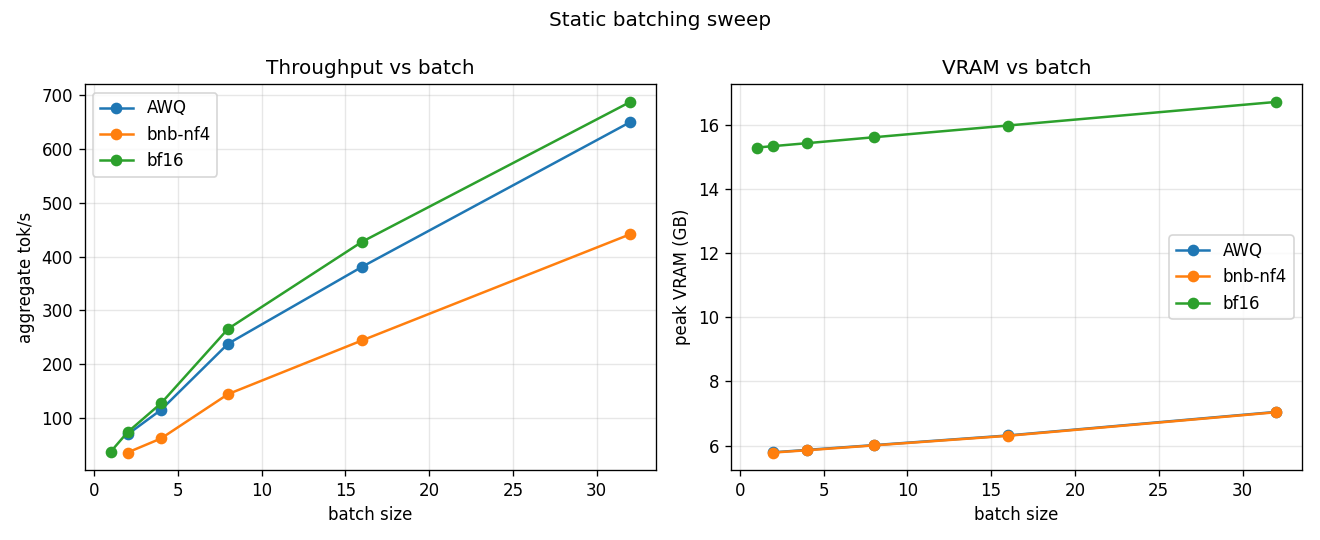
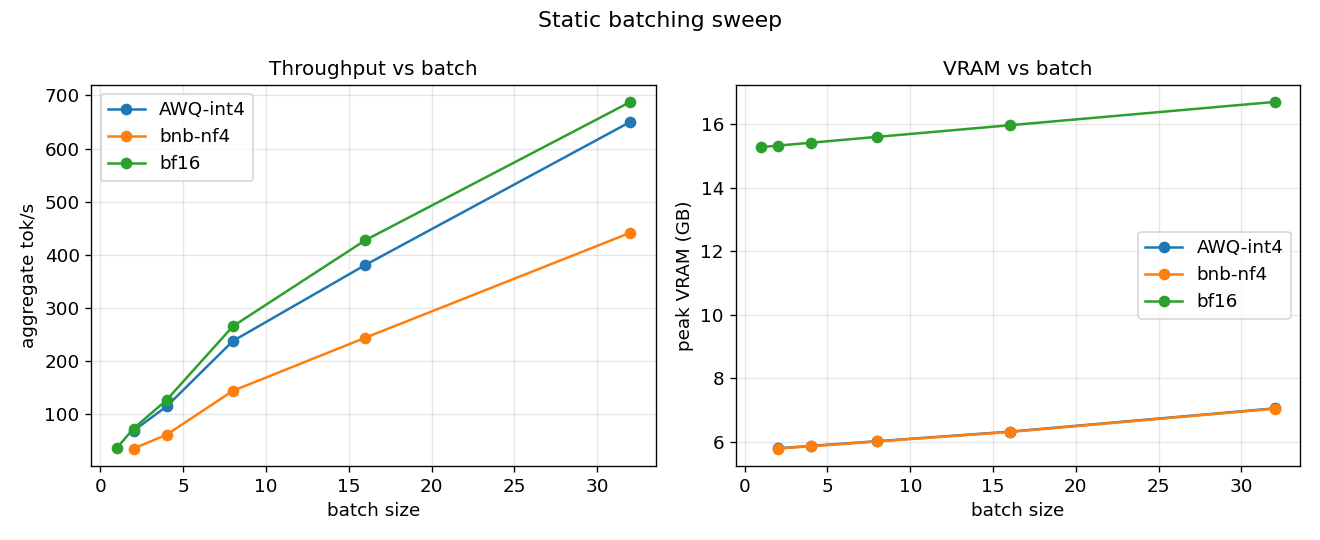
Polish figures: readable labels, value annotations, family colors, n/a handling
Shared plotstyle.py (LABEL/FORMAT_LABEL, family colors, bar value-annotations). Applied across plots.py and plots_methods.py: human-readable method names, numbers on bars, color by method family (gray=baseline/cache, green=quant, orange=spec), grid. Fix misleading '0.00' bar for formats without a quality run -> shown as 'n/a' (e.g. bnb-fp4 perplexity not measured).

diff --git a/scripts/plots_methods.py b/scripts/plots_methods.py
@@ -22,6 +22,9 @@ matplotlib.use("Agg")
 import matplotlib.pyplot as plt  # noqa: E402
 
 from aggregate import load_results  # noqa: E402
+from plotstyle import label, family_color, annotate_v, annotate_h, GREEN, GRAY  # noqa: E402
+
+RED = "#d62728"
 
 
 def dedupe_latest(speed):
@@ -44,8 +47,7 @@ def single_stream(speed):
         if not tps:
             continue
         out.append({
-            "kind": s["kind"],
-            "tps": tps,
+            "kind": s["kind"], "tps": tps,
             "vram": (s.get("peak_vram_gb") or {}).get("max"),
             "block": (s.get("mean_block_size") or {}).get("mean"),
         })
@@ -58,21 +60,25 @@ def fig_vs_baseline(rows, out, baseline="baseline_cache"):
     if not base or not base["tps"]:
         return None
     items = sorted([r for r in rows if r["kind"] != baseline], key=lambda r: r["tps"] / base["tps"])
-    names = [r["kind"] for r in items]
+    names = [label(r["kind"]) for r in items]
     spd = [r["tps"] / base["tps"] for r in items]
     vr = [(r["vram"] / base["vram"]) if r["vram"] and base["vram"] else 0 for r in items]
 
-    fig, axes = plt.subplots(1, 2, figsize=(13, max(3, 0.5 * len(items))))
-    axes[0].barh(names, spd, color=["seagreen" if x >= 1 else "indianred" for x in spd])
+    fig, axes = plt.subplots(1, 2, figsize=(13, max(3.5, 0.55 * len(items))))
+    b0 = axes[0].barh(names, spd, color=[GREEN if x >= 1 else RED for x in spd])
     axes[0].axvline(1, color="k", lw=1, ls="--")
-    axes[0].set_xlabel(f"speed vs {baseline} (×)")
-    axes[0].set_title("Speed relative to baseline (>1 = faster)")
-    axes[1].barh(names, vr, color=["seagreen" if 0 < x <= 1 else "indianred" for x in vr])
+    annotate_h(axes[0], b0, "{:.2f}×")
+    axes[0].set_xlim(0, max(spd) * 1.15)
+    axes[0].set_xlabel(f"speed vs {label(baseline)} (×)")
+    axes[0].set_title("Speed relative to baseline  (>1 = faster)")
+    b1 = axes[1].barh(names, vr, color=[GREEN if 0 < x <= 1 else RED for x in vr])
     axes[1].axvline(1, color="k", lw=1, ls="--")
-    axes[1].set_xlabel(f"VRAM vs {baseline} (×)")
-    axes[1].set_title("Memory relative to baseline (<1 = less)")
-    fig.suptitle(f"Each method vs baseline ({baseline}, batch=1)")
-    fig.tight_layout(); fig.savefig(out, dpi=120); plt.close(fig)
+    annotate_h(axes[1], b1, "{:.2f}×")
+    axes[1].set_xlim(0, max(vr) * 1.15)
+    axes[1].set_xlabel(f"VRAM vs {label(baseline)} (×)")
+    axes[1].set_title("Memory relative to baseline  (<1 = less)")
+    fig.suptitle(f"Each method vs baseline ({label(baseline)}, batch=1)")
+    fig.tight_layout(); fig.savefig(out); plt.close(fig)
     return out
 
 
@@ -82,21 +88,23 @@ def fig_spec(rows, out):
     items = [by[k] for k in order if k in by]
     if len(items) < 2:
         return None
-    fig, ax = plt.subplots(figsize=(8, 4.5))
-    bars = ax.bar([i["kind"] for i in items], [i["tps"] for i in items],
-                  color=["gray"] + ["steelblue"] * (len(items) - 1))
+    fig, ax = plt.subplots(figsize=(8.5, 5))
+    colors = [GRAY if it["kind"] == "baseline_cache" else family_color(it["kind"]) for it in items]
+    bars = ax.bar([label(it["kind"]) for it in items], [it["tps"] for it in items], color=colors)
+    annotate_v(ax, bars, "{:.0f}")
     base = by.get("baseline_cache")
     if base:
-        ax.axhline(base["tps"], color="k", ls="--", lw=1, label="baseline")
+        ax.axhline(base["tps"], color="k", ls="--", lw=1, label=f"baseline ({base['tps']:.0f})")
         ax.legend()
     for b, it in zip(bars, items):
         if it["block"]:
-            ax.annotate(f"blk {it['block']:.1f}", (b.get_x() + b.get_width() / 2, b.get_height()),
-                        ha="center", va="bottom", fontsize=8)
+            ax.annotate(f"blk {it['block']:.1f}", (b.get_x() + b.get_width() / 2, b.get_height() / 2),
+                        ha="center", va="center", fontsize=8, color="white")
     ax.set_ylabel("decode tok/s (batch=1)")
+    ax.set_ylim(0, max(it["tps"] for it in items) * 1.18)
     ax.set_title("Speculative-decoding variants vs baseline")
-    ax.tick_params(axis="x", rotation=30)
-    fig.tight_layout(); fig.savefig(out, dpi=120); plt.close(fig)
+    ax.tick_params(axis="x", rotation=20)
+    fig.tight_layout(); fig.savefig(out); plt.close(fig)
     return out
 
 
@@ -115,18 +123,21 @@ def fig_length(length_dir, out):
     lens = sorted({L for k in data for L in data[k]})
     fig, axes = plt.subplots(1, 2, figsize=(11, 4.5))
     for kind in sorted(data):
-        axes[0].plot(lens, [data[kind].get(L) for L in lens], "o-", label=kind)
+        axes[0].plot(lens, [data[kind].get(L) for L in lens], "o-", label=label(kind))
     axes[0].set_xlabel("generated tokens"); axes[0].set_ylabel("decode tok/s")
-    axes[0].set_title("Throughput vs generation length"); axes[0].legend(); axes[0].grid(alpha=.3)
+    axes[0].set_title("Throughput vs generation length"); axes[0].legend()
     if "baseline_cache" in data and "baseline_nocache" in data:
         ratio = [data["baseline_cache"].get(L, 0) / data["baseline_nocache"].get(L, 1) for L in lens]
         axes[1].plot(lens, ratio, "o-", color="purple")
+        for L, r in zip(lens, ratio):
+            axes[1].annotate(f"{r:.1f}×", (L, r), textcoords="offset points", xytext=(0, 6),
+                             ha="center", fontsize=8)
         axes[1].set_xlabel("generated tokens"); axes[1].set_ylabel("cache speedup (×)")
-        axes[1].set_title("KV-cache advantage grows with length"); axes[1].grid(alpha=.3)
+        axes[1].set_title("KV-cache advantage grows with length")
     else:
         axes[1].set_visible(False)
     fig.suptitle("KV-cache: behavior vs generation length")
-    fig.tight_layout(); fig.savefig(out, dpi=120); plt.close(fig)
+    fig.tight_layout(); fig.savefig(out); plt.close(fig)
     return out
 
 
@@ -141,14 +152,10 @@ def main():
 
     speed, _ = load_results(args.results_dir)
     rows = single_stream(dedupe_latest(speed))
-    for name, made in [
-        ("vs_baseline.png", fig_vs_baseline(rows, out_dir / "vs_baseline.png")),
-        ("spec_variants.png", fig_spec(rows, out_dir / "spec_variants.png")),
-    ]:
-        print(f"  {'wrote' if made else 'skip (insufficient data):'} {out_dir / name}")
+    print(f"  {'wrote' if fig_vs_baseline(rows, out_dir / 'vs_baseline.png') else 'skip:'} {out_dir / 'vs_baseline.png'}")
+    print(f"  {'wrote' if fig_spec(rows, out_dir / 'spec_variants.png') else 'skip:'} {out_dir / 'spec_variants.png'}")
     if args.length_dir:
-        made = fig_length(args.length_dir, out_dir / "length.png")
-        print(f"  {'wrote' if made else 'skip:'} {out_dir / 'length.png'}")
+        print(f"  {'wrote' if fig_length(args.length_dir, out_dir / 'length.png') else 'skip:'} {out_dir / 'length.png'}")
 
 
 if __name__ == "__main__":

diff --git a/scripts/plots.py b/scripts/plots.py
@@ -21,11 +21,8 @@ matplotlib.use("Agg")
 import matplotlib.pyplot as plt  # noqa: E402
 
 from aggregate import load_results, speed_format  # noqa: E402
+from plotstyle import FORMAT_LABEL, label, family_color, annotate_v, annotate_h  # noqa: E402
 
-FORMAT_LABEL = {
-    "none": "bf16", "int8": "bnb-int8", "nf4": "bnb-nf4", "fp4": "bnb-fp4",
-    "awq": "AWQ", "gptq-int4": "GPTQ-int4", "gptq-int8": "GPTQ-int8",
-}
 FORMAT_ORDER = ["none", "int8", "fp4", "nf4", "awq", "gptq-int4", "gptq-int8"]
 
 
@@ -62,9 +59,12 @@ def fig_methods(rows, out):
     if len(r) < 2:
         return None
     r.sort(key=lambda x: x["tps"])
-    fig, ax = plt.subplots(figsize=(8, max(3, 0.5 * len(r))))
-    ax.barh([x["config"] for x in r], [x["tps"] for x in r],
-            xerr=[x["tps_std"] for x in r], color="steelblue")
+    fig, ax = plt.subplots(figsize=(8.5, max(3, 0.5 * len(r))))
+    bars = ax.barh([label(x["config"]) for x in r], [x["tps"] for x in r],
+                   xerr=[x["tps_std"] for x in r],
+                   color=[family_color(x["config"]) for x in r])
+    annotate_h(ax, bars, "{:.0f}")
+    ax.set_xlim(0, max(x["tps"] for x in r) * 1.15)
     ax.set_xlabel("decode tokens/sec (batch=1)")
     ax.set_title("Single-stream speed by method")
     fig.tight_layout(); fig.savefig(out, dpi=120); plt.close(fig)
@@ -88,13 +88,21 @@ def fig_quant(rows, out):
         return None
     labels = [FORMAT_LABEL.get(x["format"], x["format"]) for x in r]
     fig, axes = plt.subplots(1, 3, figsize=(13, 4))
-    axes[0].bar(labels, [x["tps"] or 0 for x in r], color="steelblue")
+    b0 = axes[0].bar(labels, [x["tps"] or 0 for x in r], color="steelblue")
+    annotate_v(axes[0], b0, "{:.0f}")
     axes[0].set_ylabel("decode tok/s"); axes[0].set_title("Speed")
-    axes[1].bar(labels, [x["vram"] or 0 for x in r], color="seagreen")
+    b1 = axes[1].bar(labels, [x["vram"] or 0 for x in r], color="seagreen")
+    annotate_v(axes[1], b1, "{:.1f}")
     axes[1].set_ylabel("peak VRAM (GB)"); axes[1].set_title("Memory")
     ppl = [x["ppl"] for x in r]
     if any(p is not None for p in ppl):
-        axes[2].bar(labels, [p or 0 for p in ppl], color="indianred")
+        b2 = axes[2].bar(labels, [p or 0 for p in ppl],
+                         color=["indianred" if p is not None else "lightgray" for p in ppl])
+        for bar, p in zip(b2, ppl):
+            axes[2].annotate("n/a" if p is None else f"{p:.2f}",
+                             (bar.get_x() + bar.get_width() / 2, bar.get_height()),
+                             textcoords="offset points", xytext=(0, 2),
+                             ha="center", va="bottom", fontsize=8)
         axes[2].set_ylabel("WikiText-2 perplexity"); axes[2].set_title("Quality (lower=better)")
     else:
         axes[2].set_visible(False)

diff --git a/scripts/plotstyle.py b/scripts/plotstyle.py
@@ -1,0 +1,74 @@
+"""Shared plot styling: readable labels, family colors, value annotations.
+
+Imported by plots.py and plots_methods.py so every figure uses the same names,
+colors, and number labels — for thesis-ready figures.
+"""
+
+import matplotlib as _mpl
+
+_mpl.rcParams.update({
+    "figure.dpi": 120,
+    "font.size": 11,
+    "axes.titlesize": 12,
+    "axes.grid": True,
+    "grid.alpha": 0.3,
+    "axes.axisbelow": True,
+})
+
+# config kind -> human-readable label
+LABEL = {
+    "baseline_cache": "bf16 + cache",
+    "baseline_nocache": "bf16, no cache",
+    "manual_kv": "manual KV-cache",
+    "quant_int8": "bnb-int8",
+    "quant_nf4": "bnb-nf4",
+    "quant_fp4": "bnb-fp4",
+    "quant_awq": "AWQ-int4",
+    "quant_gptq-int4": "GPTQ-int4",
+    "spec": "spec (draft 0.5B)",
+    "spec_nf4": "spec + nf4 target",
+    "spec_awq": "spec + AWQ target",
+    "spec_lookup": "prompt-lookup",
+}
+
+# weight-format label (for batch/quant figures)
+FORMAT_LABEL = {
+    "none": "bf16", "bf16": "bf16", "bfloat16": "bf16",
+    "int8": "bnb-int8", "nf4": "bnb-nf4", "fp4": "bnb-fp4",
+    "awq": "AWQ-int4", "gptq-int4": "GPTQ-int4", "gptq-int8": "GPTQ-int8",
+}
+
+# method-family colors (consistent across figures)
+GRAY, GREEN, ORANGE, BLUE = "#7f7f7f", "#2ca02c", "#ff7f0e", "#1f77b4"
+
+
+def label(kind):
+    return LABEL.get(kind, kind)
+
+
+def family_color(kind):
+    if kind == "manual_kv" or kind.startswith("baseline"):
+        return GRAY
+    if kind.startswith("quant"):
+        return GREEN
+    if kind.startswith("spec"):
+        return ORANGE
+    return BLUE
+
+
+def annotate_v(ax, bars, fmt="{:.0f}", pad=2):
+    """Value labels above vertical bars."""
+    for b in bars:
+        h = b.get_height()
+        ax.annotate(fmt.format(h), (b.get_x() + b.get_width() / 2, h),
+                    textcoords="offset points", xytext=(0, pad),
+                    ha="center", va="bottom", fontsize=8)
+
+
+def annotate_h(ax, bars, fmt="{:.2f}", pad=3):
+    """Value labels at the end of horizontal bars."""
+    for b in bars:
+        w = b.get_width()
+        ax.annotate(fmt.format(w), (w, b.get_y() + b.get_height() / 2),
+                    textcoords="offset points", xytext=(pad, 0),
+                    ha="left", va="center", fontsize=8)
